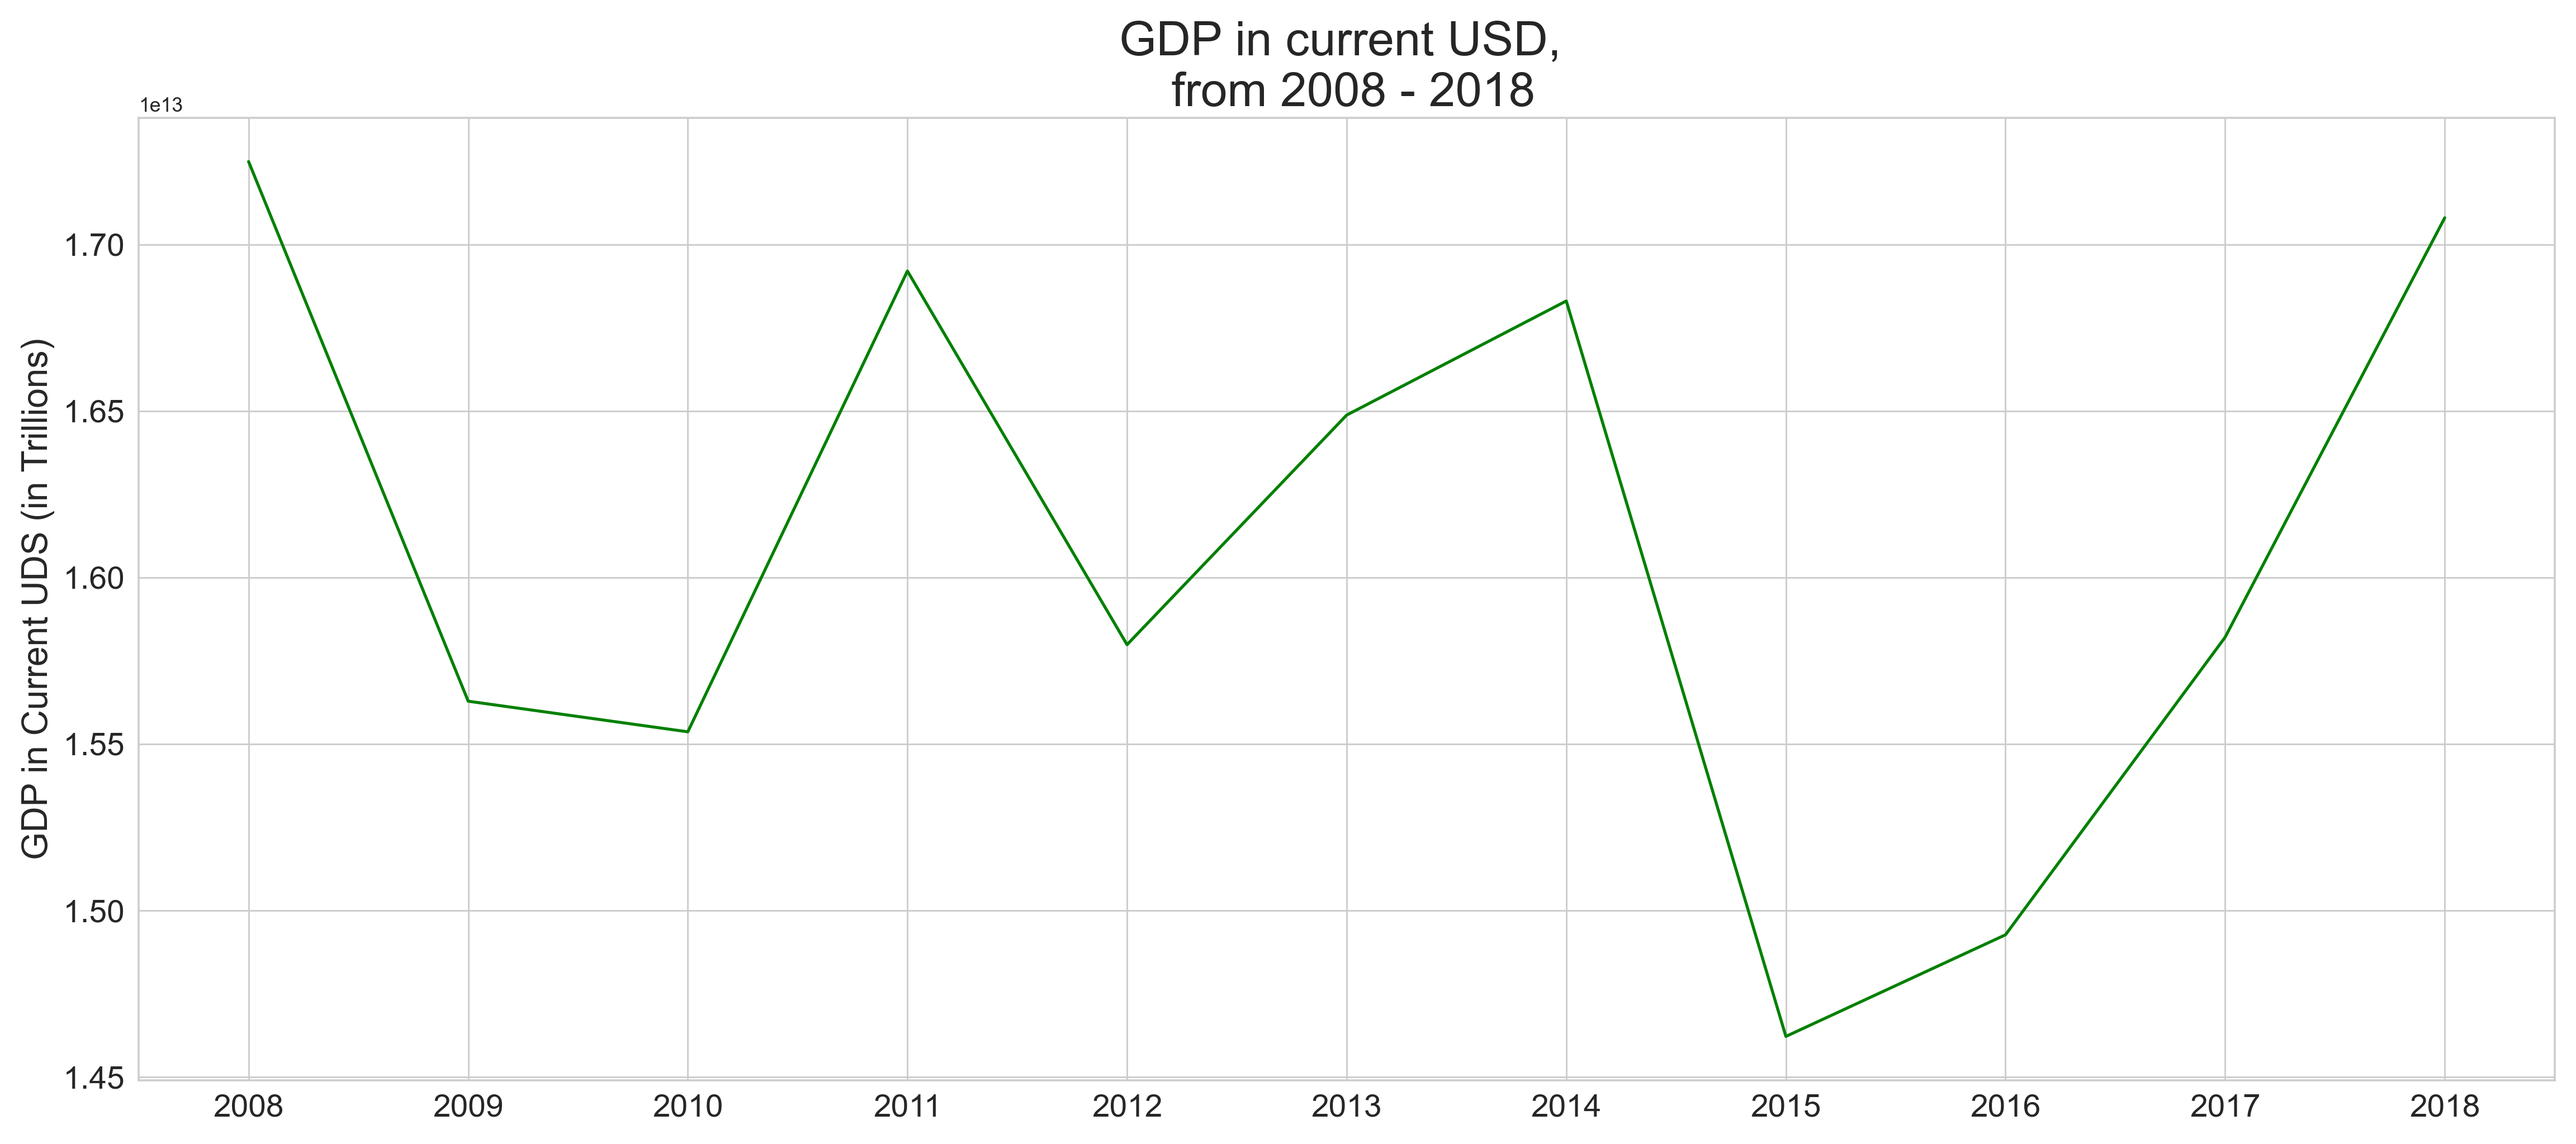
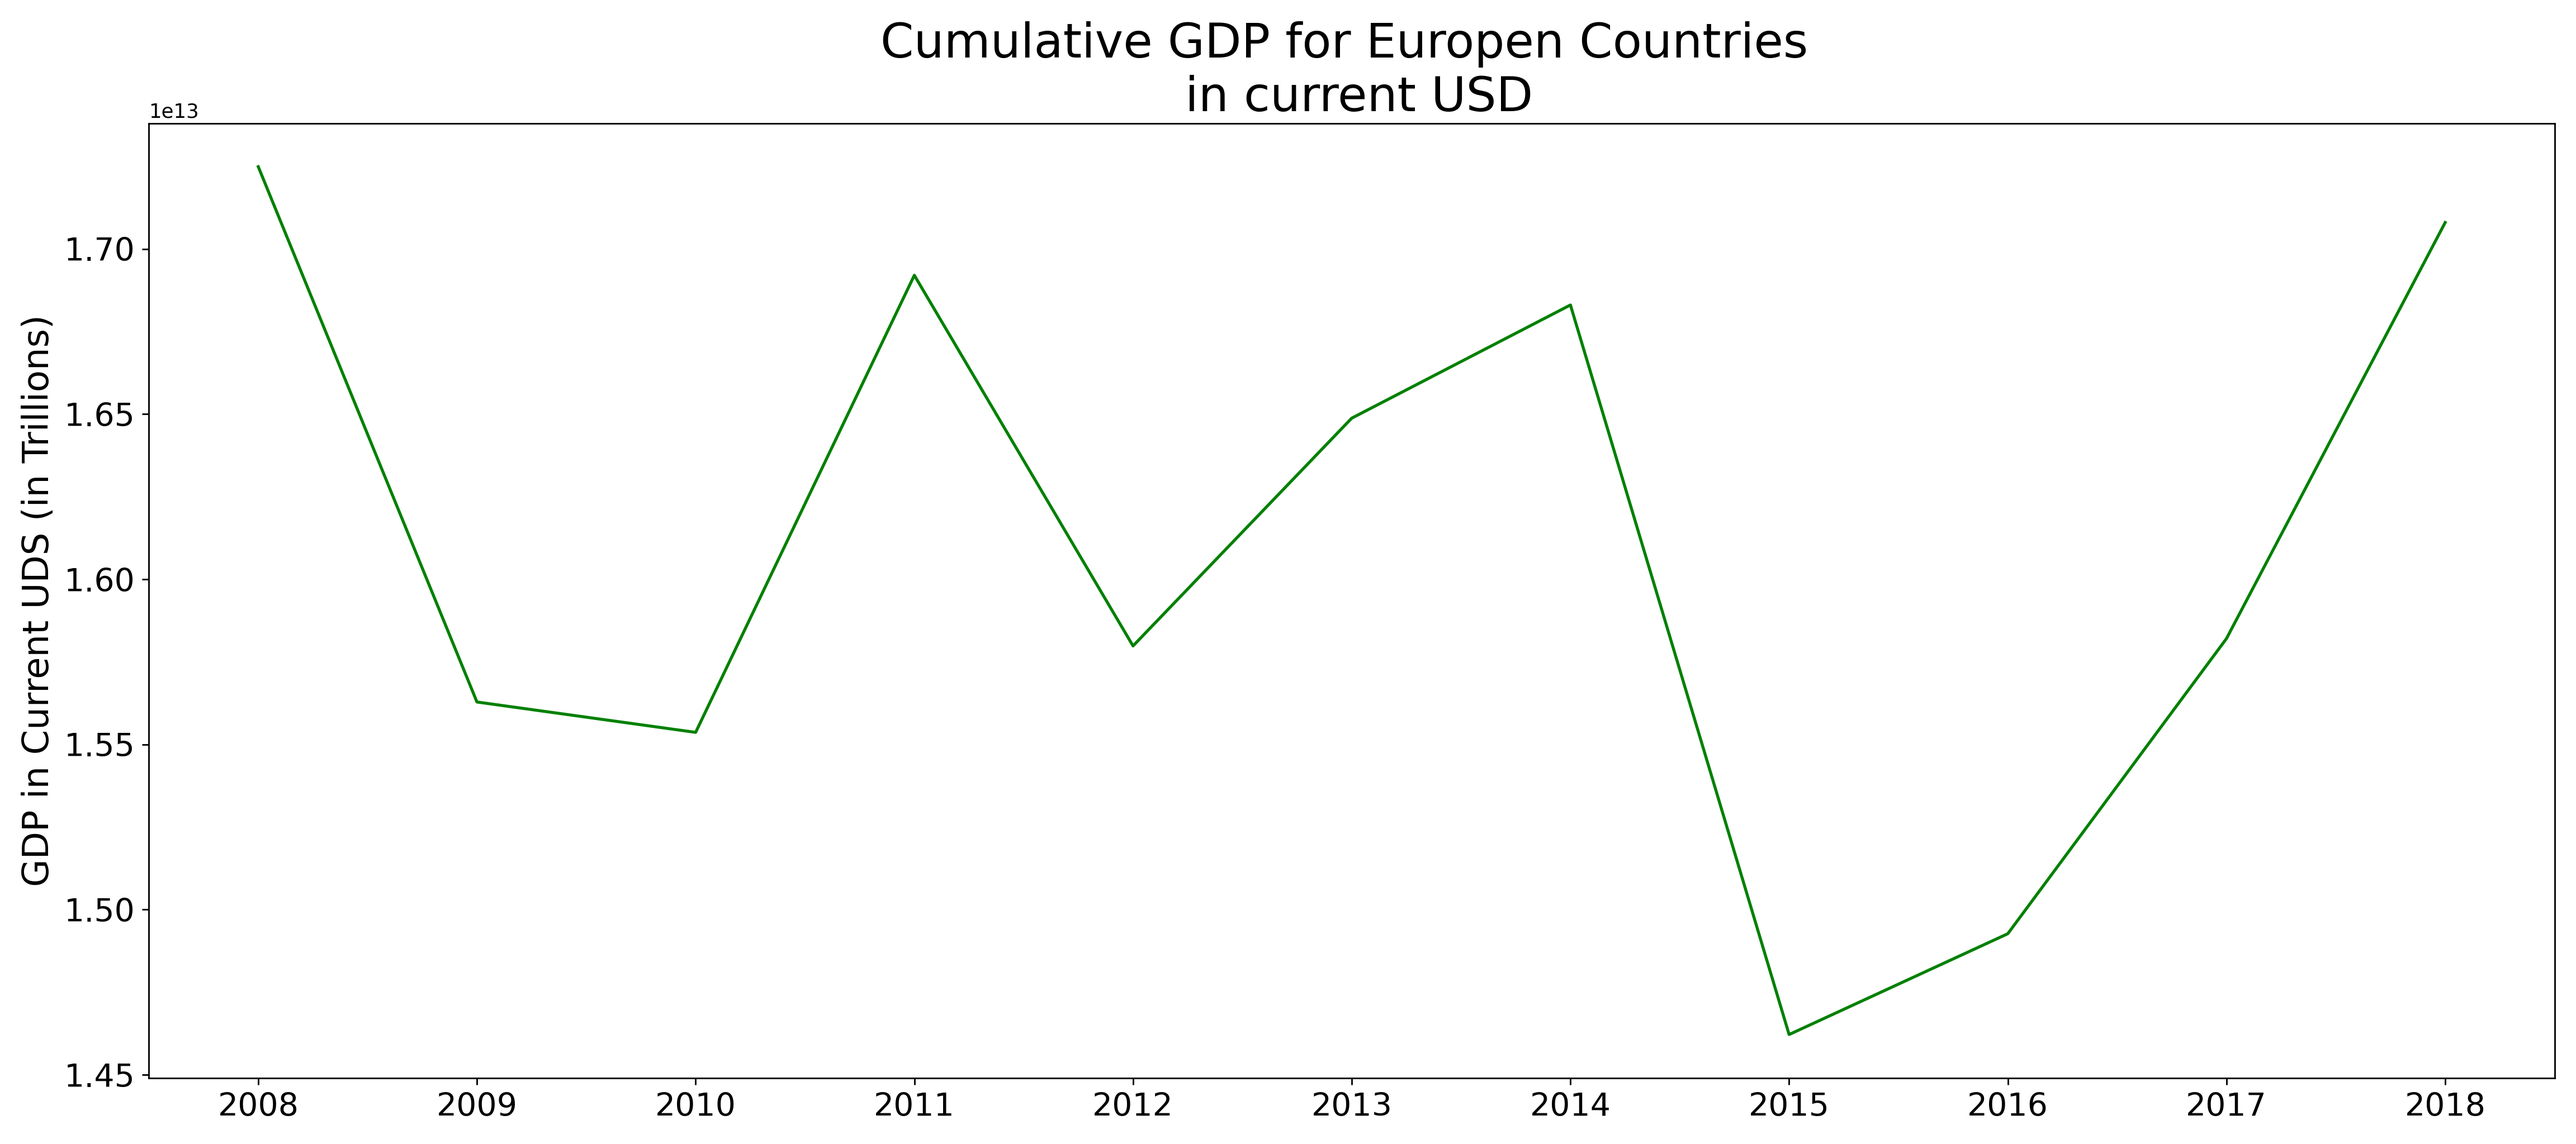
updated gdp graph

diff --git a/src/capstone1_graphing.py b/src/capstone1_graphing.py
@@ -18,10 +18,10 @@ fix, ax = plt.subplots(1, 1, figsize =(18, 8), dpi = 256)
 ax.plot(total_eu_gdp, color = "green")
 ax.tick_params(axis='both', which='major', labelsize=16)
 ax.set_ylabel("GDP in Current UDS (in Trillions)", fontsize = 18)
-ax.set_title("GDP in current USD, \n from 2008 - 2018", fontsize = 24)
+ax.set_title("Cumulative GDP for Europen Countries \n in current USD", fontsize = 24)
 plt.tight_layout()
 # plt.show
-# plt.savefig('gdp.png')
+plt.savefig('../images/gdp.png')
 
 '''
 # TOURISM 
